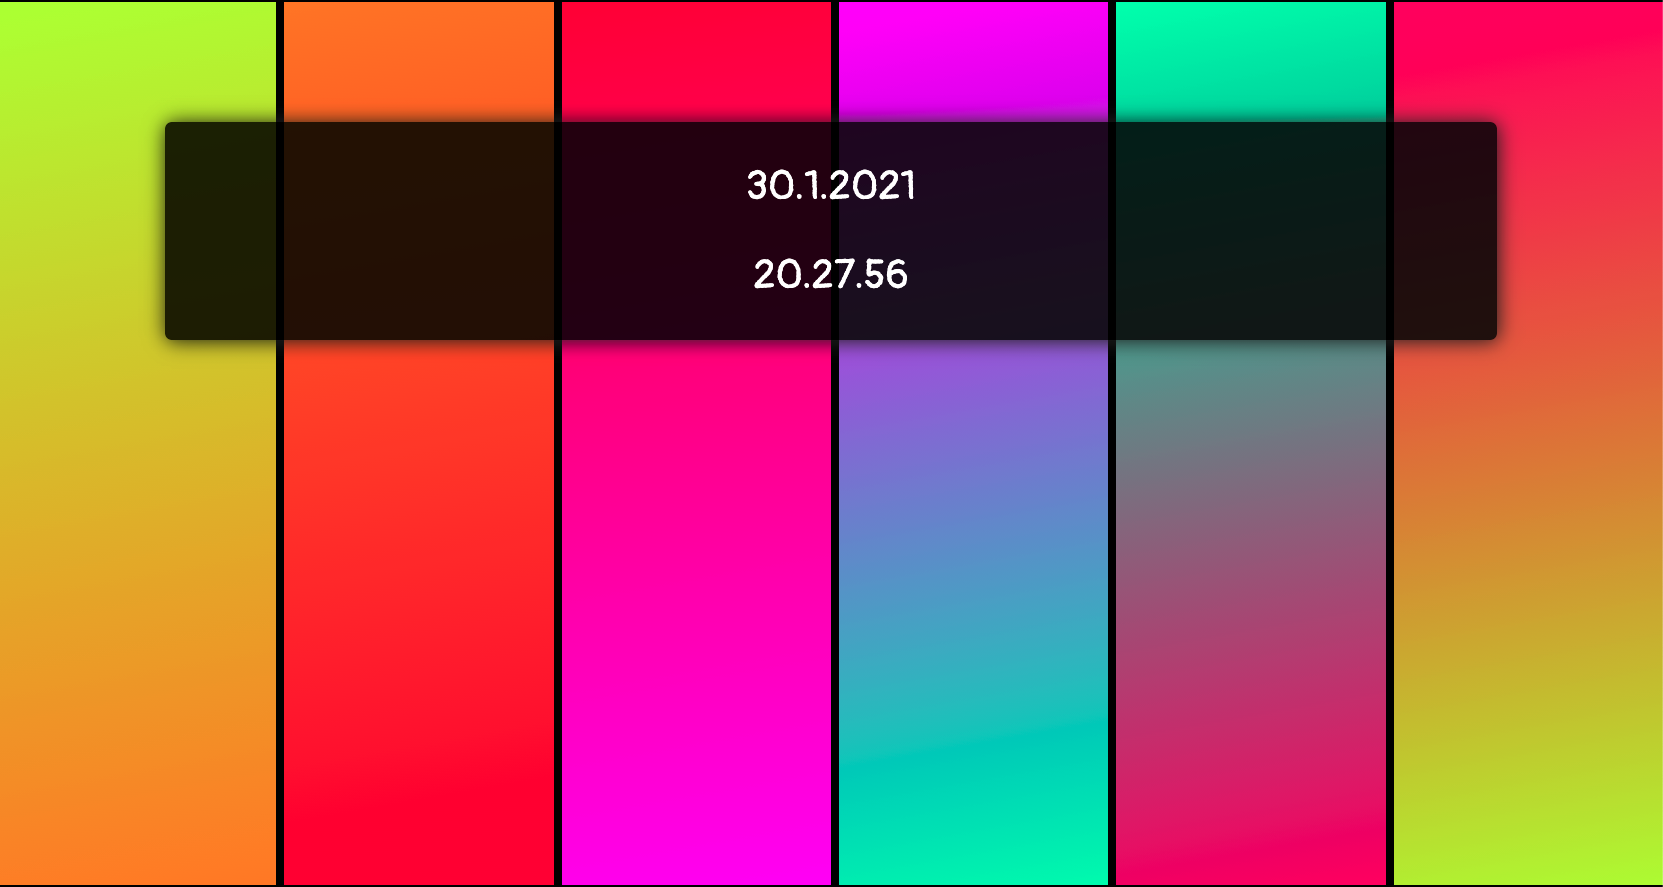
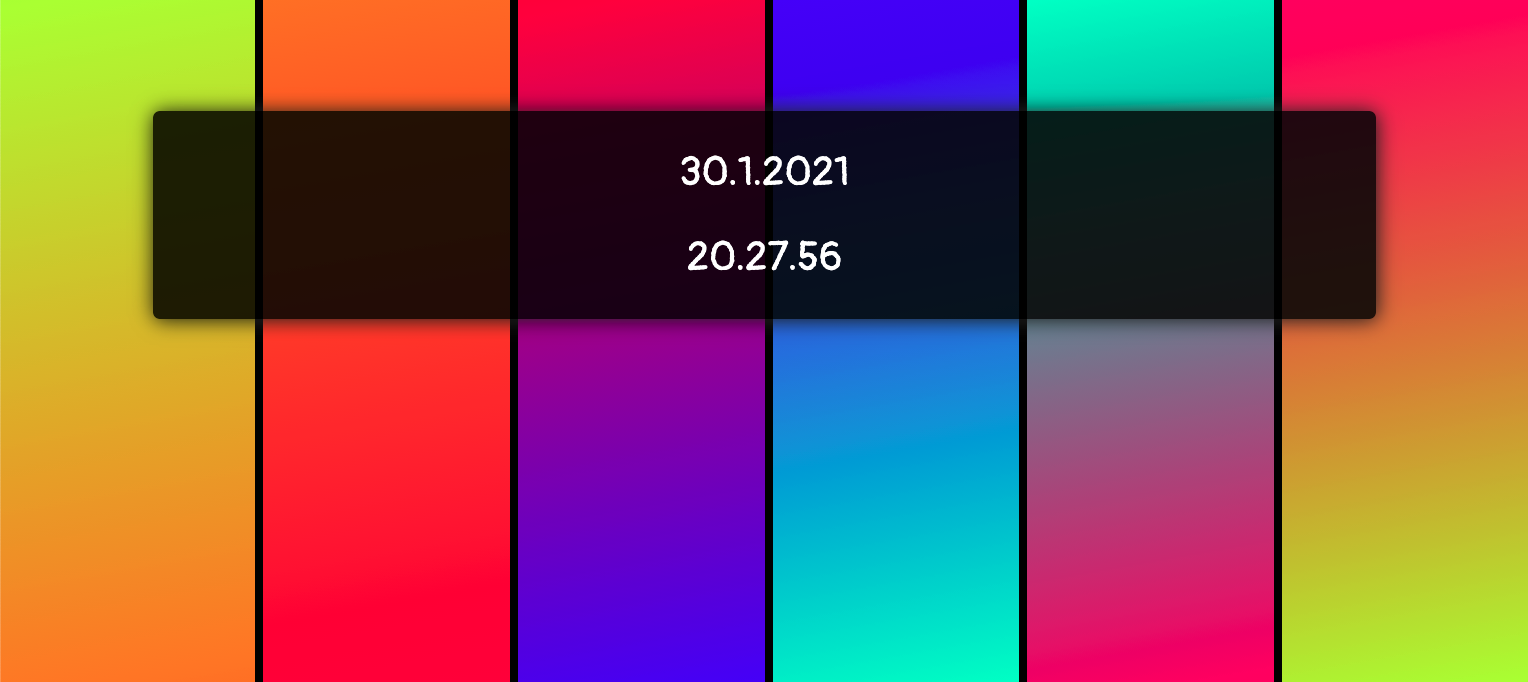
Changes in documentation examples for the 12-hour calculations.

diff --git a/README.md b/README.md
@@ -2,7 +2,7 @@
 
 See the clock in action at [sermoa.github.io/clock](https://sermoa.github.io/clock/)
 
-This clock changes colours based on the current date and time. For no reason other than to look pretty! With every second that ticks by, the clock produces a unique wall of colour that will not be repeated again for a century.
+This clock changes colours based on the current date and time. For no reason other than to look pretty! With every second that ticks by, the clock produces a unique wall of colour.
 
 ![An example of the clock](images/example-clock.png)
 
@@ -20,11 +20,9 @@ The colours map to a fully saturated colour wheel of hues of light, where 0 and 
 
 ![Colour wheel](images/colour-wheel.png)
 
-The opposite of red in this colour wheel is cyan (`#00FFFF`) which is what we see at 50%.
+I think the only time all the bars will be exactly the same colour will be at the turn of the next century, 1st January 2100, when everything will be red.
 
-This means that at precisely 12:30:30 on the 15th June 2050 all the bars will be coloured exactly the same colour - cyan.
-
-![Cyan time](images/cyan-time.png)
+![Red time](images/red-time.png)
 
 ## How does it know the date and time?
 
@@ -34,15 +32,18 @@ The date and time are localised to you, and are taken from your device. All the 
 
 The date and time are displayed on the screen in your preferred format according to your device. For me in Denmark, I see the date and time like this:
 
-    30.1.2021 20.27.56
+    30.1.2021
+    20.27.56
 
 Someone in the UK would likely see the same date and time displayed like this:
 
-    30/01/2021 20:27:56
+    30/01/2021
+    20:27:56
 
 Whilst someone in the USA would probably see it like this:
 
-    1/30/2021 8:27:56 PM
+    1/30/2021
+    8:27:56 PM
 
 This is simply using the preferred settings of your device.
 
@@ -56,7 +57,7 @@ In the time format, the seconds are optional.
 
 For example, the moment of the assassination of John F. Kennedy - 22nd November 1963 at 12:30 PM - is found at the following URL:
 
-[sermoa.github.io/clock/?d=22-Nov-1693&t=12:30](https://sermoa.github.io/clock/?d=22-Nov-1693&t=12:30)
+[sermoa.github.io/clock/?d=22-Nov-1963&t=12:30](https://sermoa.github.io/clock/?d=22-Nov-1963&t=12:30)
 
 ![Assassination of JFK](images/assassination-of-jfk.png)
 
@@ -70,9 +71,9 @@ If you see "Invalid Date" and white bars, it either means you got the format wro
 
 ## When will the colours be a rainbow?
 
-I'm so glad you asked! I wondered this too! I think the 6th February 2098 at 06:34:44 will make a rather nice rainbow!
+I'm so glad you asked! I wondered this too! I think the 5th February 2099 at 15:31:44 will make a rather nice rainbow!
 
-[sermoa.github.io/clock/?d=6-Feb-2098&t=06:34:44](https://sermoa.github.io/clock/?d=6-Feb-2098&t=06:34:44)
+[sermoa.github.io/clock/?d=5-Feb-2099&t=15:31:44](https://sermoa.github.io/clock/?d=5-Feb-2099&t=15:31:44)
 
 ![Rainbow time](images/rainbow-time.png)
 
@@ -106,8 +107,8 @@ Every 2 seconds, the clock will send a `PUT` request to the URL with data about 
       },
       "hours": {
         "value": 20.465555555555557,
-        "percentage": 0.8527314814814816,
-        "rgb": "rgb(255, 0, 225)"
+        "percentage": 0.7054629629629631,
+        "rgb": "rgb(59, 0, 255)"
       },
       "minutes": {
         "value": 27.933333333333334,
